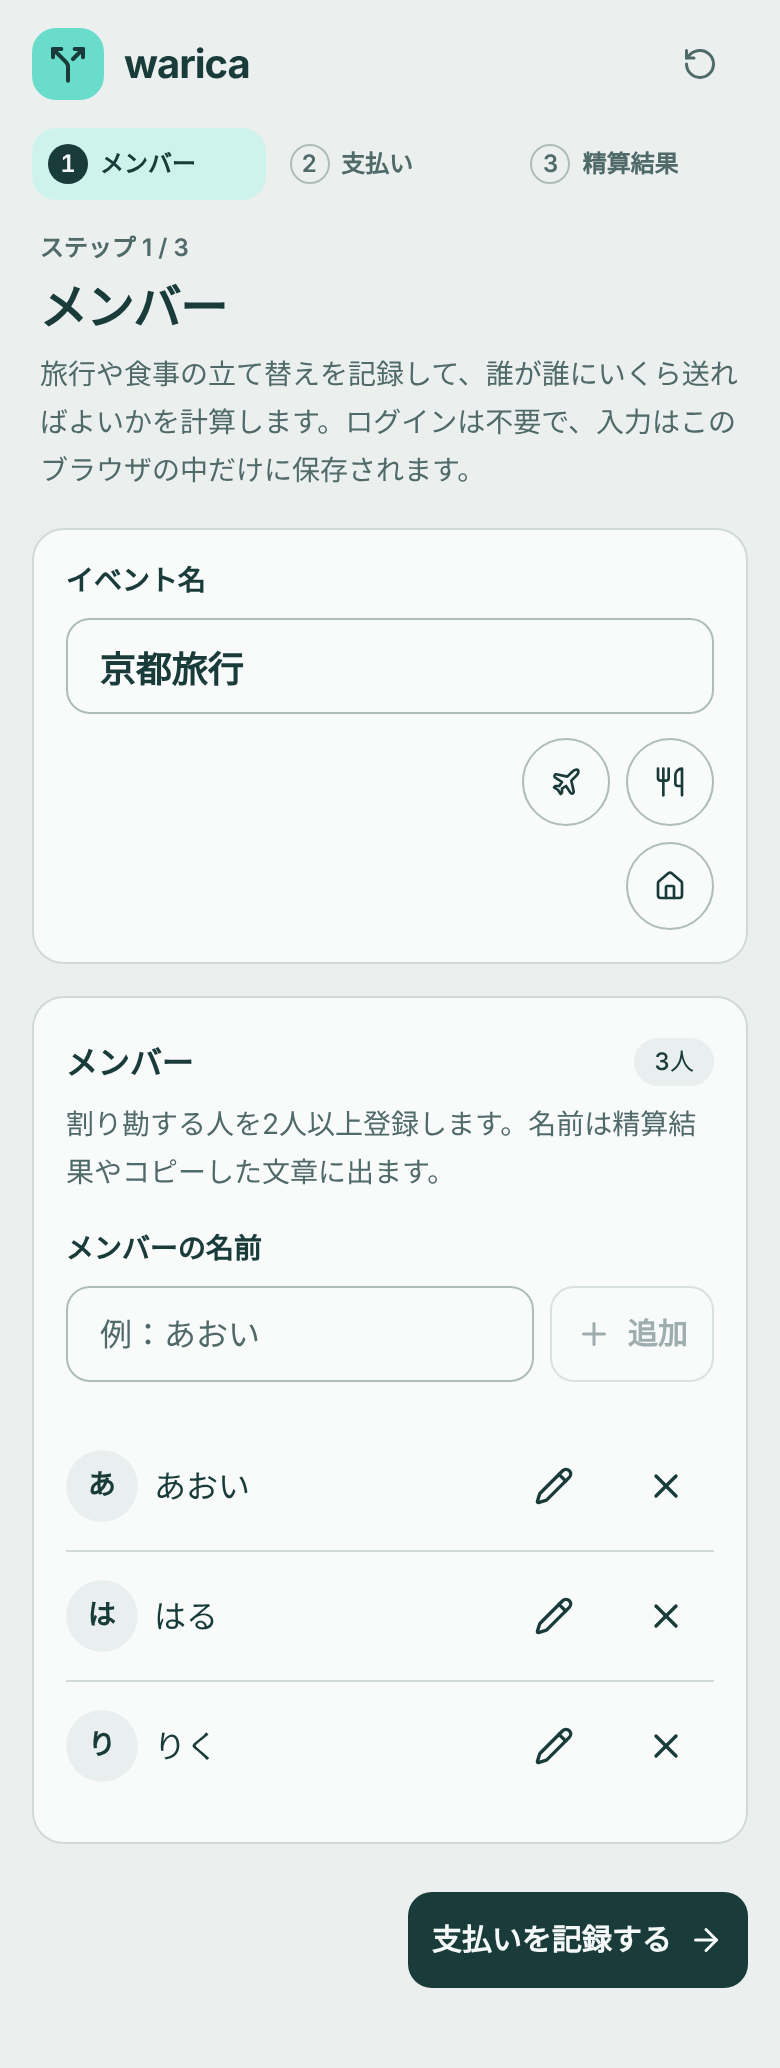
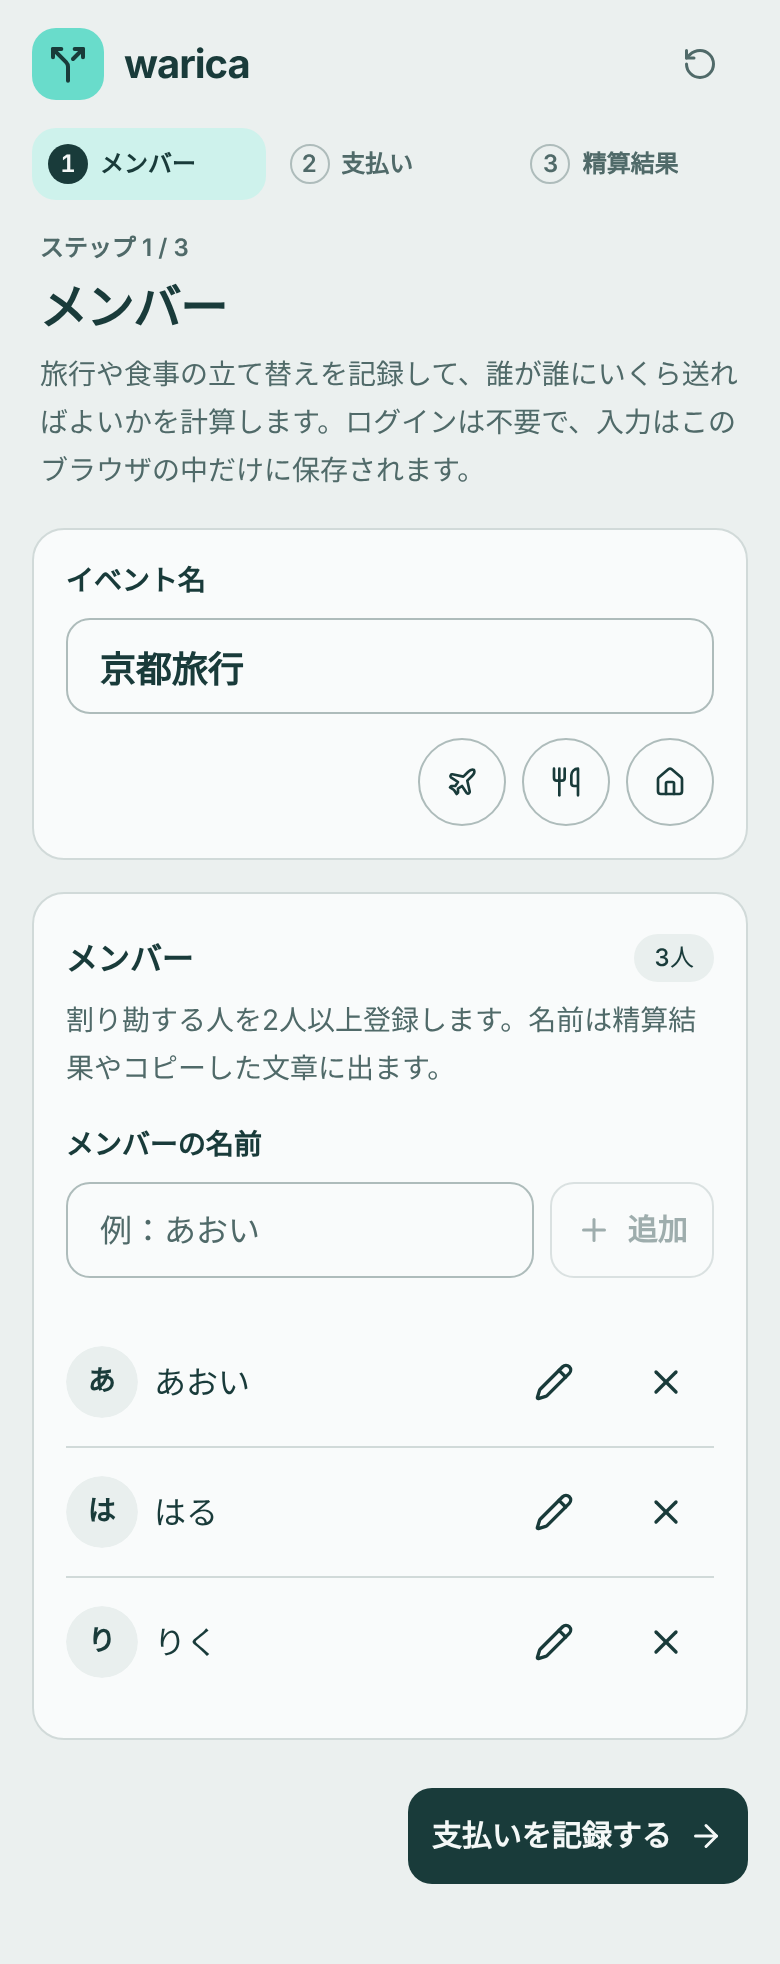
fix(ui): スマホの全画面を見直し、読みにくい・押しにくい箇所を直す
320・375・390・430px（Chromium）と 390px（WebKit）で全画面と主な状態を撮影して確認した。

- 送金の行：長い名前で矢印だけが行に残るため、「Aから」「Bへ」の2行にし、助詞が単独で折り返さないようにする
- PayPay の登録フォーム：×と✓のアイコンを「登録する」「キャンセル」「リンクを削除」の文字ボタンにし、
  入力の誤りを入力欄の下に出す。登録済みのリンクは「PayPayを開く」
- 一括コピーの結果と、コピーできないときの文章を、押したボタンのすぐ下に出す（行ごとのコピーでは文章まで動かす）
- 精算の概要：合計が大きいと「支払い」だけが折り返すので、合計の下に2列で並べる
- イベント名の候補（3つ）を1行に。縦に積むボタンの幅をそろえる（下部の操作・保存エラー）
- 続けて追加したときに通知が重なってヘッダーを覆わないよう、1件ずつ・3秒で出す
- 名前の重複エラーが、入力し直したり別の人を編集しても残り続けていたのを消す
- 見出しを手順の名前と同じ「精算結果」に。支払いの編集中はパネルの枠で示す
- 保存エラーの案内をボタンの名前（バックアップを書き出す）と合わせる
- axe の検査前にポインターを外す（クリック位置に残ったポインターで、フェード途中のツールチップを測っていた）
- README のスクリーンショットを撮り直す

Claude-Session: https://claude.ai/code/session_0184ddCkcKmGQsNwbRN26P27

diff --git a/src/app/result/page.tsx b/src/app/result/page.tsx
@@ -23,6 +23,7 @@ import { useWarikanStore } from '@/state/warikan-store';
 import { settlementKey } from '@/lib/domain/paypay';
 import type { MemberBalance, Settlement } from '@/lib/domain/types';
 import { settlementText, yen } from '@/lib/domain/calculations';
+import { scrollToContent } from '@/lib/scroll';
 
 export default function ResultPage() {
   const { state, balances, settlements, total } = useWarikanStore();
@@ -47,11 +48,13 @@ export default function ResultPage() {
       setShareText(value);
       setShowText(true);
       setMessage('コピーできませんでした。下のテキストを選択してコピーしてください。');
+      // 行ごとのコピーから出したときも、代わりの文章が見える位置まで動かす
+      requestAnimationFrame(() => scrollToContent(document.getElementById('share-text'), 'smooth'));
     }
   }
   return (
     <>
-      <PageHeader step="ステップ 3 / 3" title="精算">
+      <PageHeader step="ステップ 3 / 3" title="精算結果">
         この通りに送金すると、全員の負担がそろいます。送金はPayPayや振込などで各自が行い、このアプリはお金を動かしません。
       </PageHeader>
       {state.payments.some((p) => p.needsReview) && (
@@ -65,8 +68,8 @@ export default function ResultPage() {
       )}
       <Panel tone="inverse" aria-label="精算の概要">
         <p className="text-sm text-sub/80 wrap-anywhere">{state.eventName}</p>
-        <dl className="mt-2 flex flex-wrap items-end gap-x-8 gap-y-3">
-          <div>
+        <dl className="mt-2 grid grid-cols-2 gap-x-6 gap-y-3 sm:flex sm:flex-wrap sm:items-end sm:gap-x-8">
+          <div className="col-span-2 sm:col-span-1">
             <dt className="text-xs text-sub/80">立て替え合計</dt>
             <dd className="text-4xl font-semibold tracking-tight tabular-nums sm:text-5xl">
               {yen(total)}
@@ -85,7 +88,7 @@ export default function ResultPage() {
       <Panel>
         <SectionHeader
           title="送金"
-          description="左の人が右の人へ送ります。送金は最大で「人数−1」件にまとめています。"
+          description="「から」の人が「へ」の人に送ります。送金は最大で「人数−1」件にまとめています。"
         >
           <Badge>{settlements.length}件</Badge>
         </SectionHeader>
@@ -99,18 +102,40 @@ export default function ResultPage() {
             一括コピー
           </ActionButton>
         </div>
+        {/* コピーの結果と、コピーできなかったときの文章は、押したボタンのすぐ下に出す */}
+        <p className={message ? '-mt-2 mb-4 text-sm leading-6' : 'sr-only'} role="status">
+          {message}
+        </p>
+        {showText && (
+          <div className="mb-5">
+            <Field id="share-text" label="共有用テキスト">
+              <TextArea
+                id="share-text"
+                value={shareText}
+                readOnly
+                onFocus={(e) => e.target.select()}
+              />
+            </Field>
+          </div>
+        )}
         {settlements.length ? (
           <ol data-testid="transfer-list" className="divide-y divide-border">
             {settlements.map((settlement) => (
               <li
                 key={`${state.eventName}-${settlementKey(settlement)}`}
-                className="grid grid-cols-[minmax(0,1fr)_auto] items-center gap-x-3 gap-y-2 py-4 first:pt-0"
+                className="grid grid-cols-[minmax(0,1fr)_auto] items-start gap-x-3 gap-y-2 py-4 first:pt-0"
               >
-                <div className="flex min-w-0 flex-wrap items-center gap-x-2 gap-y-1 font-semibold wrap-anywhere">
-                  <span>{settlement.from}</span>
-                  <ArrowRight size={16} className="text-muted-foreground" aria-label="から" />
-                  <span>{settlement.to}</span>
-                </div>
+                {/* スマホでは「Aから」「Bへ」の2行。長い名前でも矢印だけが行に取り残されない */}
+                <p className="min-w-0 pt-2 font-semibold leading-7 wrap-anywhere">
+                  <NameWith name={settlement.from} particle="から" />
+                  <br className="sm:hidden" />
+                  <ArrowRight
+                    size={16}
+                    className="mx-1.5 hidden align-[-2px] text-muted-foreground sm:inline"
+                    aria-hidden="true"
+                  />
+                  <NameWith name={settlement.to} particle="へ" />
+                </p>
                 <div className="flex items-center gap-1">
                   <strong className="text-lg font-semibold tabular-nums">
                     {yen(settlement.amount)}
@@ -129,19 +154,6 @@ export default function ResultPage() {
           <EmptyState icon={Check} title="精算不要" headingLevel={3}>
             全員の支払った額と負担額が一致しています。送金はいりません。
           </EmptyState>
-        )}
-        <p className={message ? 'mt-4 text-sm leading-6' : 'sr-only'} role="status">
-          {message}
-        </p>
-        {showText && (
-          <Field id="share-text" label="共有用テキスト">
-            <TextArea
-              id="share-text"
-              value={shareText}
-              readOnly
-              onFocus={(e) => e.target.select()}
-            />
-          </Field>
         )}
       </Panel>
       <Panel>
@@ -164,6 +176,21 @@ export default function ResultPage() {
           支払いを追加・編集する
         </ActionLink>
       </ActionRow>
+    </>
+  );
+}
+
+/** 名前の最後の1文字と助詞をつなげ、「へ」だけが次の行に落ちないようにする */
+function NameWith({ name, particle }: { name: string; particle: string }) {
+  const chars = Array.from(name);
+  const last = chars.pop() ?? '';
+  return (
+    <>
+      {chars.join('')}
+      <span className="whitespace-nowrap">
+        {last}
+        <span className="font-normal text-muted-foreground"> {particle}</span>
+      </span>
     </>
   );
 }

diff --git a/src/components/result/PayPayTransfer.tsx b/src/components/result/PayPayTransfer.tsx
@@ -1,11 +1,11 @@
 'use client';
 import { useId, useRef, useState, type FormEvent } from 'react';
-import { Check, ExternalLink, Link2, Pencil, Trash2, X } from 'lucide-react';
+import { Check, ExternalLink, Link2, Pencil, Trash2 } from 'lucide-react';
 import { useWarikanStore } from '@/state/warikan-store';
 import { PAYPAY_GUIDE_URL, settlementKey } from '@/lib/domain/paypay';
 import type { Settlement } from '@/lib/domain/types';
 import { yen } from '@/lib/domain/calculations';
-import { IconAction } from '@/components/actions';
+import { ActionButton } from '@/components/actions';
 import { Field, Help, Notice, TextInput } from '@/components/ui';
 import { Button } from '@/components/ui/button';
 import { Collapsible, CollapsibleContent } from '@/components/ui/collapsible';
@@ -57,7 +57,7 @@ export function PayPayTransfer({ settlement }: { settlement: Settlement }) {
                 }
               }}
             >
-              PayPay <ExternalLink className="size-4" aria-hidden="true" />
+              PayPayを開く <ExternalLink className="size-4" aria-hidden="true" />
             </a>
           </Button>
         )}
@@ -86,11 +86,15 @@ export function PayPayTransfer({ settlement }: { settlement: Settlement }) {
       {link && !open && (
         <p className="mt-2 text-right text-xs text-muted-foreground">宛先・金額はPayPayで確認</p>
       )}
-      {error && <Notice alert>{error}</Notice>}
+      {error && !open && (
+        <div className="mt-2">
+          <Notice alert>{error}</Notice>
+        </div>
+      )}
       <CollapsibleContent id={`${inputId}-editor`}>
         <form
           onSubmit={save}
-          className="mt-3 space-y-3 rounded-control border border-main/15 p-3"
+          className="mt-3 space-y-3 rounded-control border border-border bg-muted p-3"
           onKeyDown={(event) => {
             if (event.key === 'Escape') {
               event.stopPropagation();
@@ -115,28 +119,41 @@ export function PayPayTransfer({ settlement }: { settlement: Settlement }) {
               placeholder="https://…"
               autoFocus
               aria-invalid={!!error}
+              aria-describedby={error ? `${inputId}-error` : undefined}
             />
           </Field>
-          <div className="ml-auto flex max-w-[6.25rem] flex-wrap justify-end gap-1 sm:max-w-none">
+          {error && (
+            <p id={`${inputId}-error`} role="alert" className="text-sm font-medium text-main">
+              {error}
+            </p>
+          )}
+          <div className="ml-auto flex w-fit flex-col items-stretch gap-2 sm:flex-row-reverse sm:items-center">
+            <ActionButton
+              type="submit"
+              icon={Check}
+              variant="primary"
+              aria-label="請求リンクを登録する"
+              disabled={!input.trim()}
+            >
+              登録する
+            </ActionButton>
+            <ActionButton variant="ghost" aria-label="リンク編集をキャンセル" onClick={close}>
+              キャンセル
+            </ActionButton>
             {link && (
-              <IconAction
-                label={`${label}請求リンクを削除`}
+              <ActionButton
                 icon={Trash2}
+                variant="ghost"
+                aria-label={`${label}請求リンクを削除`}
                 onClick={() => {
                   const result = store.removePayPayLink(settlement);
                   if (result.ok) close();
                   else setError(result.error);
                 }}
-              />
+              >
+                リンクを削除
+              </ActionButton>
             )}
-            <IconAction label="リンク編集をキャンセル" icon={X} onClick={close} />
-            <IconAction
-              label="請求リンクを登録する"
-              icon={Check}
-              type="submit"
-              variant="primary"
-              disabled={!input.trim()}
-            />
           </div>
           <Help label="請求リンクの作り方">
             受け取る人がPayPayで本人確認を済ませ、LINEのトークで「＋」→「送る・受け取る」→「請求リンクを作成」。精算額で作成し、共有されたリンクを貼り付けてください。

diff --git a/src/app/page.tsx b/src/app/page.tsx
@@ -95,7 +95,10 @@ export default function MembersPage() {
                 id="member-name"
                 ref={nameRef}
                 value={name}
-                onChange={(e) => setName(e.target.value)}
+                onChange={(e) => {
+                  setName(e.target.value);
+                  setError('');
+                }}
                 placeholder="例：あおい"
                 maxLength={20}
                 autoComplete="off"
@@ -155,6 +158,7 @@ export default function MembersPage() {
                       onClick={() => {
                         setEditId(member.id);
                         setEditName(member.name);
+                        setError('');
                       }}
                     />
                     <IconAction
@@ -171,12 +175,12 @@ export default function MembersPage() {
           <p className="mt-5 text-sm text-muted-foreground">まだメンバーがいません。</p>
         )}
       </Panel>
+      {!payments.ready && (
+        <p className="px-1 text-right text-sm text-muted-foreground" role="status">
+          {payments.blockedReason}
+        </p>
+      )}
       <ActionRow>
-        {!payments.ready && (
-          <p className="text-sm text-muted-foreground" role="status">
-            {payments.blockedReason}
-          </p>
-        )}
         {payments.ready ? (
           <ActionLink href={routes.payments} icon={ArrowRight} trailingIcon variant="primary">
             支払いを記録する

diff --git a/tests/e2e/warica.spec.ts b/tests/e2e/warica.spec.ts
@@ -61,7 +61,7 @@ test('complete flow: selected participants, immediate reload, edit, copy fallbac
   await page.getByRole('link', { name: '精算結果を見る' }).click();
   await expect(page).toHaveURL(/\/result$/);
   await page.reload();
-  await expect(page.getByRole('heading', { name: '精算', exact: true })).toBeVisible();
+  await expect(page.getByRole('heading', { name: '精算結果', exact: true })).toBeVisible();
   const transfer = page.getByTestId('transfer-list').locator('li');
   await expect(transfer).toHaveCount(1);
   await expect(transfer).toContainText('はる');
@@ -224,7 +224,7 @@ test('empty and populated screens fit the viewport with long names', async ({ pa
   await page.getByRole('button', { name: 'この支払いを追加する' }).click();
   await noOverflow(page);
   await page.getByRole('link', { name: '精算結果を見る' }).click();
-  await expect(page.getByRole('heading', { name: '精算', exact: true })).toBeVisible();
+  await expect(page.getByRole('heading', { name: '精算結果', exact: true })).toBeVisible();
   await noOverflow(page);
   await page.screenshot({
     path: `artifacts/${testInfo.project.name}-result.png`,

diff --git a/tests/e2e/accessibility.spec.ts b/tests/e2e/accessibility.spec.ts
@@ -11,6 +11,10 @@ test('all pages and confirmation expose accessible names and readable text', asy
   // axe で10か所近い状態を順に検査する。単独では WebKit でも約15秒だが、並列実行では30秒を超えることがある
   test.setTimeout(90_000);
   const scan = async (name: string) => {
+    // 直前のクリック位置にポインターが残ると、遅れて開くツールチップのフェード途中を測ってしまう。
+    // タッチ操作ではツールチップは開かないので、ポインターを外してから検査する。
+    await page.mouse.move(0, 0);
+    await expect(page.locator('[data-slot="tooltip-content"]')).toHaveCount(0);
     // Inspect the settled UI, rather than sampling toast/dialog fade transitions.
     await page.evaluate(
       () =>

diff --git a/src/components/ChoiceChips.tsx b/src/components/ChoiceChips.tsx
@@ -1,5 +1,6 @@
 'use client';
 import type { LucideIcon } from 'lucide-react';
+import { cx } from './ui';
 import { ToggleGroup, ToggleGroupItem } from './ui/toggle-group';
 import { Tooltip, TooltipContent, TooltipTrigger } from './ui/tooltip';
 
@@ -26,7 +27,11 @@ export function ChoiceChips({
     <ToggleGroup
       type="single"
       spacing={1}
-      className="flex max-w-[6.25rem] flex-wrap justify-end gap-2 sm:max-w-none sm:justify-start"
+      // スマホは右半分（約 9.5rem）に収める：3つまでは1行、4つは2つずつ2行
+      className={cx(
+        'flex flex-wrap justify-end gap-2 sm:max-w-none sm:justify-start',
+        choices.length <= 3 ? 'max-w-[9.5rem]' : 'max-w-[6.25rem]',
+      )}
       aria-label={label}
       value={value}
       onValueChange={(next) => {

diff --git a/src/components/layout/AppShell.tsx b/src/components/layout/AppShell.tsx
@@ -267,7 +267,7 @@ export function AppShell({ children }: { children: ReactNode }) {
             <Notice alert>
               {storageError && <p>{storageError}</p>}
               {workspace.storageError && <p>{workspace.storageError}</p>}
-              <div className="mt-3 flex flex-wrap justify-end gap-2">
+              <div className="mt-3 ml-auto flex w-fit flex-col items-stretch gap-2 sm:w-auto sm:flex-row sm:flex-wrap sm:justify-end">
                 {storageConflict && (
                   <ActionButton
                     icon={RefreshCw}

diff --git a/src/lib/persistence/storage.ts b/src/lib/persistence/storage.ts
@@ -205,7 +205,7 @@ export function saveToStorage(
       ok: false,
       code: 'unavailable',
       error:
-        'ブラウザに保存できませんでした。入力はこの画面に残っています。再試行するか、バックアップを保存してください。',
+        'ブラウザに保存できませんでした。入力はこの画面に残っています。保存を再試行するか、バックアップを書き出してください。',
     };
   }
 }

diff --git a/src/components/payments/PaymentEditor.tsx b/src/components/payments/PaymentEditor.tsx
@@ -90,7 +90,7 @@ export function PaymentEditor({
         title={editingId ? '支払いを編集' : '支払いを追加'}
         description={
           editingId
-            ? '内容を直して「変更を保存」を押すと、精算結果に反映されます。'
+            ? '内容を直して「変更を保存する」を押すと、精算結果に反映されます。'
             : '1回の立て替えを1件として記録します。'
         }
       >

diff --git a/src/components/ui/index.tsx b/src/components/ui/index.tsx
@@ -248,7 +248,7 @@ export function EmptyState({
  */
 export function ActionRow({ children }: { children: ReactNode }) {
   return (
-    <div className="flex flex-col items-end gap-2 pt-2 sm:flex-row sm:flex-wrap sm:items-center sm:justify-end sm:gap-3">
+    <div className="ml-auto flex w-fit flex-col items-stretch gap-2 pt-2 sm:w-auto sm:flex-row sm:flex-wrap sm:items-center sm:justify-end sm:gap-3">
       {children}
     </div>
   );

diff --git a/src/components/ui/sonner.tsx b/src/components/ui/sonner.tsx
@@ -15,7 +15,9 @@ const Toaster = ({ ...props }: ToasterProps) => {
       theme="light"
       position="top-center"
       containerAriaLabel="通知"
-      duration={5000}
+      duration={3000}
+      // 続けて追加しても通知が重なってヘッダーを覆わないよう、1件ずつ出す
+      visibleToasts={1}
       toastOptions={{
         classNames: {
           toast: '!border-main/15 !bg-main !text-sub',

diff --git a/src/app/globals.css b/src/app/globals.css
@@ -118,6 +118,11 @@
   border: 1px solid var(--border);
   background-color: var(--app-paper);
 }
+/* 支払いの編集中は、どのパネルを直しているかを枠で示す */
+[data-ui='panel'][data-editing='yes'] {
+  border-color: var(--brand-main);
+  border-width: 2px;
+}
 [data-ui='panel'][data-tone='inverse'] {
   border-color: var(--brand-main);
   background-color: var(--brand-main);
